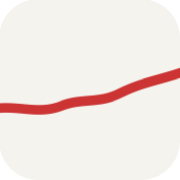
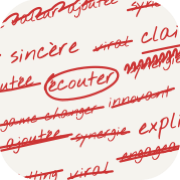
Icône d'onglet : brouillon de ratures rouges sur fond crème

diff --git a/index.html b/index.html
@@ -4,7 +4,7 @@
   <meta charset="utf-8" />
   <meta name="viewport" content="width=device-width, initial-scale=1" />
   <title>Sonia Ghariani — Communication, Brussels</title>
-  <link rel="icon" href="favicon.svg" type="image/svg+xml" />
+  <link rel="icon" href="images/apple-touch-icon.png" sizes="180x180" type="image/png" />
   <link rel="icon" href="images/favicon-32.png" sizes="32x32" type="image/png" />
   <link rel="apple-touch-icon" href="images/apple-touch-icon.png" />
   <link rel="preconnect" href="https://fonts.googleapis.com" />

diff --git a/projet.html b/projet.html
@@ -4,7 +4,7 @@
   <meta charset="utf-8" />
   <meta name="viewport" content="width=device-width, initial-scale=1" />
   <title>Sonia Ghariani — Portfolio</title>
-  <link rel="icon" href="favicon.svg" type="image/svg+xml" />
+  <link rel="icon" href="images/apple-touch-icon.png" sizes="180x180" type="image/png" />
   <link rel="icon" href="images/favicon-32.png" sizes="32x32" type="image/png" />
   <link rel="apple-touch-icon" href="images/apple-touch-icon.png" />
   <link rel="preconnect" href="https://fonts.googleapis.com" />

diff --git a/contact.html b/contact.html
@@ -3,7 +3,7 @@
 <head>
   <meta charset="utf-8" />
   <title>Contact — Sonia Ghariani</title>
-  <link rel="icon" href="favicon.svg" type="image/svg+xml" />
+  <link rel="icon" href="images/apple-touch-icon.png" sizes="180x180" type="image/png" />
   <link rel="icon" href="images/favicon-32.png" sizes="32x32" type="image/png" />
   <link rel="apple-touch-icon" href="images/apple-touch-icon.png" />
   <!-- Tout le site tient maintenant sur une seule page -->

diff --git a/projets.html b/projets.html
@@ -3,7 +3,7 @@
 <head>
   <meta charset="utf-8" />
   <title>Projets — Sonia Ghariani</title>
-  <link rel="icon" href="favicon.svg" type="image/svg+xml" />
+  <link rel="icon" href="images/apple-touch-icon.png" sizes="180x180" type="image/png" />
   <link rel="icon" href="images/favicon-32.png" sizes="32x32" type="image/png" />
   <link rel="apple-touch-icon" href="images/apple-touch-icon.png" />
   <!-- Tout le site tient maintenant sur une seule page -->

diff --git a/qui-suis-je.html b/qui-suis-je.html
@@ -3,7 +3,7 @@
 <head>
   <meta charset="utf-8" />
   <title>À propos — Sonia Ghariani</title>
-  <link rel="icon" href="favicon.svg" type="image/svg+xml" />
+  <link rel="icon" href="images/apple-touch-icon.png" sizes="180x180" type="image/png" />
   <link rel="icon" href="images/favicon-32.png" sizes="32x32" type="image/png" />
   <link rel="apple-touch-icon" href="images/apple-touch-icon.png" />
   <!-- La page À propos est maintenant l'accueil -->

diff --git a/cv.html b/cv.html
@@ -3,7 +3,7 @@
 <head>
   <meta charset="utf-8" />
   <title>CV — Sonia Ghariani</title>
-  <link rel="icon" href="favicon.svg" type="image/svg+xml" />
+  <link rel="icon" href="images/apple-touch-icon.png" sizes="180x180" type="image/png" />
   <link rel="icon" href="images/favicon-32.png" sizes="32x32" type="image/png" />
   <link rel="apple-touch-icon" href="images/apple-touch-icon.png" />
   <!-- Tout le site tient maintenant sur une seule page -->
